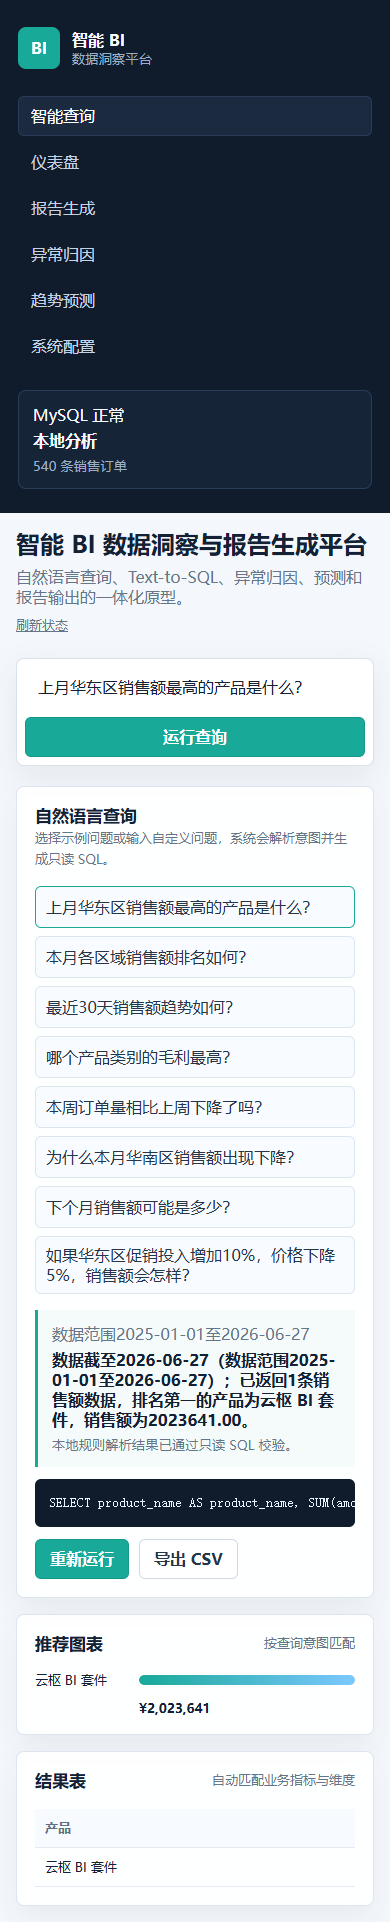
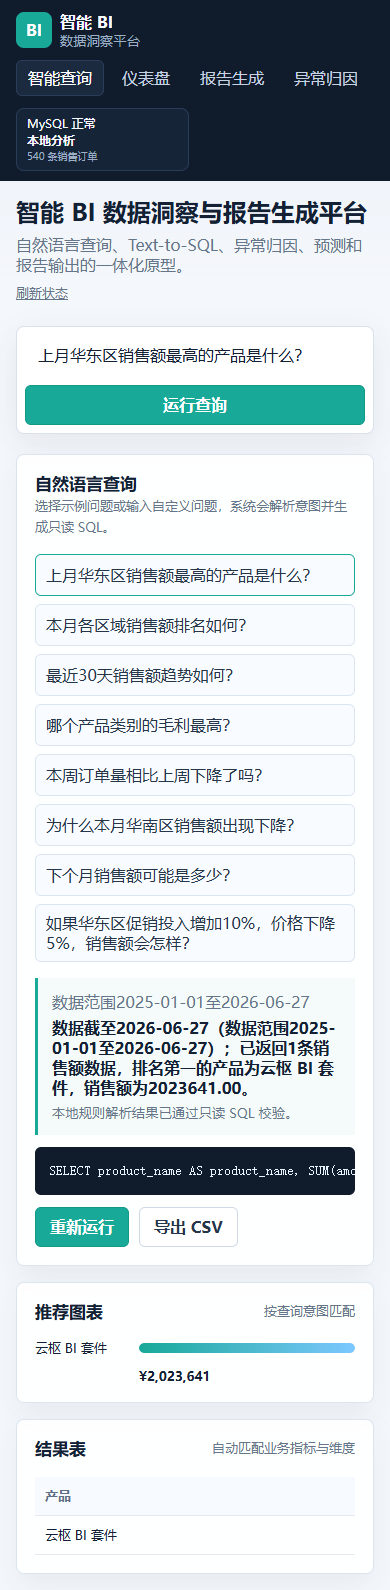
fix: polish BI dashboard visual QA

diff --git a/src/components/Charts.jsx b/src/components/Charts.jsx
@@ -2,7 +2,31 @@ import { formatCurrency, formatNumber, formatPercent } from '../lib/formatters.j
 import React from 'react';
 
 function maxValue(data, key) {
-  return Math.max(...data.map((item) => item[key] || 0), 1);
+  return Math.max(...data.map((item) => Number(item[key]) || 0), 1);
+}
+
+function rankingProfitRate(row) {
+  const provided = Number(row.profit_rate);
+  if (Number.isFinite(provided)) return provided;
+
+  const amount = Number(row.amount);
+  const profit = Number(row.profit);
+  return Number.isFinite(profit) && Number.isFinite(amount) && amount !== 0
+    ? profit / amount
+    : 0;
+}
+
+function tickVisibility(index, count) {
+  if (count <= 6) return { desktop: true, mobile: true };
+
+  const last = count - 1;
+  const desktopStep = count >= 16 ? 3 : 2;
+  const mobileStep = count >= 16 ? 6 : 3;
+  const edge = index === 0 || index === last;
+  return {
+    desktop: edge || index % desktopStep === 0,
+    mobile: edge || index % mobileStep === 0,
+  };
 }
 
 export function BarChart({ data, valueKey = 'amount', label = '销售额', formatter = formatCurrency }) {
@@ -14,7 +38,7 @@ export function BarChart({ data, valueKey = 'amount', label = '销售额', forma
         <div className="bar-row" key={item.name}>
           <span>{item.name}</span>
           <div className="bar-row__track">
-            <div className="bar-row__fill" style={{ width: `${Math.max((item[valueKey] / max) * 100, 4)}%` }} />
+            <div className="bar-row__fill" style={{ width: `${Math.max(((Number(item[valueKey]) || 0) / max) * 100, 4)}%` }} />
           </div>
           <strong>{formatter(item[valueKey])}</strong>
         </div>
@@ -30,7 +54,7 @@ export function LineChart({ data, valueKey = 'amount', label = '趋势' }) {
   const max = maxValue(data, valueKey);
   const points = data.map((item, index) => {
     const x = pad + (index * (width - pad * 2)) / Math.max(data.length - 1, 1);
-    const y = height - pad - ((item[valueKey] || 0) / max) * (height - pad * 2);
+    const y = height - pad - ((Number(item[valueKey]) || 0) / max) * (height - pad * 2);
     return { ...item, x, y };
   });
   const path = points.map((point) => `${point.x},${point.y}`).join(' ');
@@ -40,12 +64,13 @@ export function LineChart({ data, valueKey = 'amount', label = '趋势' }) {
       <svg viewBox={`0 0 ${width} ${height}`} role="img" aria-label={label}>
         <line x1={pad} y1={height - pad} x2={width - pad} y2={height - pad} className="chart-axis" />
         <polyline points={path} className="chart-line" />
-        {points.map((point) => (
-          <g key={point.name}>
+        {points.map((point, index) => {
+          const ticks = tickVisibility(index, points.length);
+          return <g key={point.name}>
             <circle cx={point.x} cy={point.y} r="4" className="chart-point" />
-            <text x={point.x} y={height - 4} textAnchor="middle" className="chart-label">{point.name}</text>
-          </g>
-        ))}
+            {ticks.desktop && <text x={point.x} y={height - 4} textAnchor="middle" className={ticks.mobile ? 'chart-label' : 'chart-label chart-label--desktop-only'}>{point.name}</text>}
+          </g>;
+        })}
       </svg>
     </div>
   );
@@ -60,7 +85,7 @@ export function ContributionGrid({ rows }) {
             <span>{row.name}</span>
             <strong>{formatCurrency(row.amount)}</strong>
           </div>
-          <small>毛利率 {formatPercent(row.profitRate)} · 数量 {formatNumber(row.quantity)}</small>
+          <small>毛利率 {formatPercent(rankingProfitRate(row))} · 数量 {formatNumber(row.quantity)}</small>
         </article>
       ))}
     </div>

diff --git a/src/styles.css b/src/styles.css
@@ -663,6 +663,40 @@ button:disabled {
     padding: 16px;
   }
 
+  .sidebar {
+    position: sticky;
+    z-index: 10;
+    display: grid;
+    grid-template-columns: minmax(0, 1fr) minmax(0, 1fr);
+    align-items: center;
+    gap: 10px 12px;
+    padding: 10px 16px;
+  }
+
+  .brand {
+    gap: 8px;
+    min-height: 40px;
+  }
+
+  .brand__mark {
+    width: 36px;
+    height: 36px;
+  }
+
+  .sidebar-note {
+    min-width: 0;
+    margin: 0;
+    gap: 2px;
+    padding: 7px 10px;
+    font-size: 12px;
+  }
+
+  .sidebar-note small {
+    overflow: hidden;
+    text-overflow: ellipsis;
+    white-space: nowrap;
+  }
+
   .topbar h1,
   .topbar p {
     overflow-wrap: anywhere;
@@ -674,9 +708,25 @@ button:disabled {
 
   .command-bar,
   .sample-grid,
-  .metrics-row,
-  .nav-list {
+  .metrics-row {
     grid-template-columns: 1fr;
+  }
+
+  .nav-list {
+    grid-column: 1 / -1;
+    display: flex;
+    gap: 6px;
+    overflow-x: auto;
+    overflow-y: hidden;
+    padding-bottom: 2px;
+  }
+
+  .nav-item {
+    flex: 0 0 auto;
+    width: auto;
+    min-height: 36px;
+    padding: 0 11px;
+    white-space: nowrap;
   }
 
   .bar-row {
@@ -689,5 +739,9 @@ button:disabled {
 
   table {
     min-width: 760px;
+  }
+
+  .chart-label--desktop-only {
+    display: none;
   }
 }

diff --git a/tests/e2e/system.spec.js b/tests/e2e/system.spec.js
@@ -16,6 +16,8 @@ test.describe.serial('full-stack BI acceptance', () => {
     await openView(page, '仪表盘');
     await expect(page.getByText('销售额', { exact: true })).toBeVisible();
     await expect(page.locator('.metric-card').first().locator('strong')).toContainText(/¥|￥/);
+    await expect(page.locator('.contribution-item').first()).not.toContainText(/NaN|undefined/);
+    await expect(page.locator('.line-chart .chart-label')).toHaveCount(7);
     await page.screenshot({ path: qaPath('full-stack-dashboard.png'), fullPage: true });
 
     const regionFilter = page.getByLabel('区域');
@@ -80,6 +82,9 @@ test.describe.serial('full-stack BI acceptance', () => {
     await page.setViewportSize({ width: 390, height: 844 });
     await page.goto('/');
     await expect(page.getByText('MySQL 正常')).toBeVisible();
+    await expect(page.locator('.topbar')).toBeInViewport();
+    await expect(page.locator('.nav-item')).toHaveCount(6);
+    await expect(page.locator('.nav-list')).toHaveCSS('overflow-x', 'auto');
     await page.getByRole('button', { name: question, exact: true }).click();
     await expect(page.locator('.sql-box')).toContainText('SELECT');
     await page.screenshot({ path: qaPath('full-stack-mobile-query.png'), fullPage: true });

diff --git a/src/lib/formatters.js b/src/lib/formatters.js
@@ -1,22 +1,28 @@
+function finiteNumber(value) {
+  const parsed = Number(value);
+  return Number.isFinite(parsed) ? parsed : 0;
+}
+
 export function formatCurrency(value) {
   return new Intl.NumberFormat('zh-CN', {
     style: 'currency',
     currency: 'CNY',
     maximumFractionDigits: 0,
-  }).format(value);
+  }).format(finiteNumber(value));
 }
 
 export function formatNumber(value) {
   return new Intl.NumberFormat('zh-CN', {
     maximumFractionDigits: 0,
-  }).format(value);
+  }).format(finiteNumber(value));
 }
 
 export function formatPercent(value) {
-  return `${(value * 100).toFixed(1)}%`;
+  return `${(finiteNumber(value) * 100).toFixed(1)}%`;
 }
 
 export function formatDelta(value) {
-  const sign = value > 0 ? '+' : '';
-  return `${sign}${(value * 100).toFixed(1)}%`;
+  const normalized = finiteNumber(value);
+  const sign = normalized > 0 ? '+' : '';
+  return `${sign}${(normalized * 100).toFixed(1)}%`;
 }

diff --git a/backend/tests/integration/test_analytics_api.py b/backend/tests/integration/test_analytics_api.py
@@ -1,3 +1,5 @@
+from decimal import Decimal
+
 import pytest
 from fastapi.testclient import TestClient
 
@@ -29,6 +31,11 @@ def test_dashboard_returns_filterable_mysql_aggregates(api_client):
     assert data["filters"]["region"] == "华东"
     assert data["regions"]
     assert data["products"]
+    assert all(
+        {"amount", "profit", "profit_rate"}.issubset(product)
+        and Decimal(product["profit_rate"]) >= 0
+        for product in data["products"]
+    )
     assert len(data["trend"]) == 18
 
 
